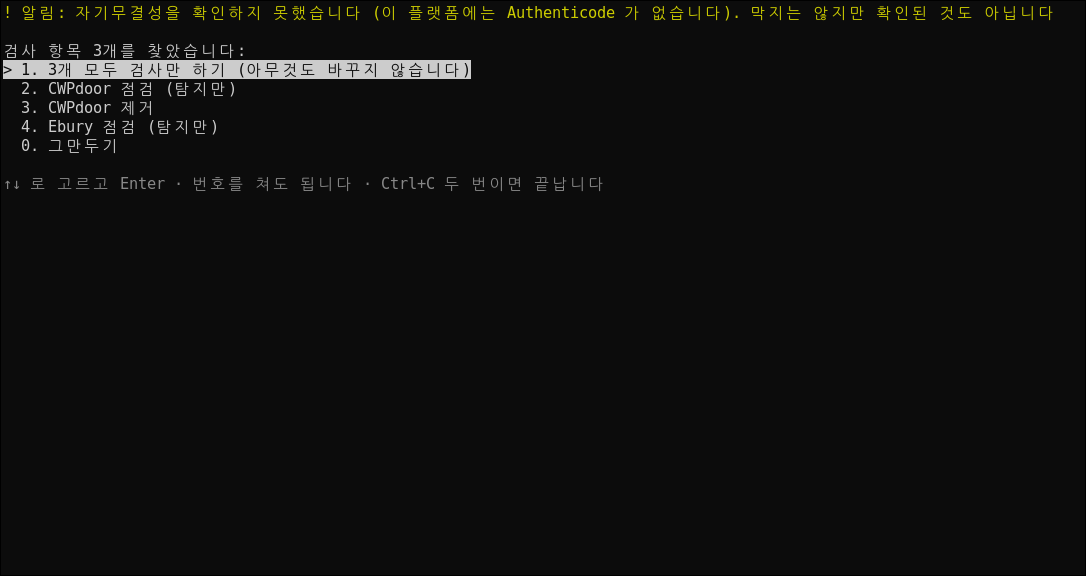
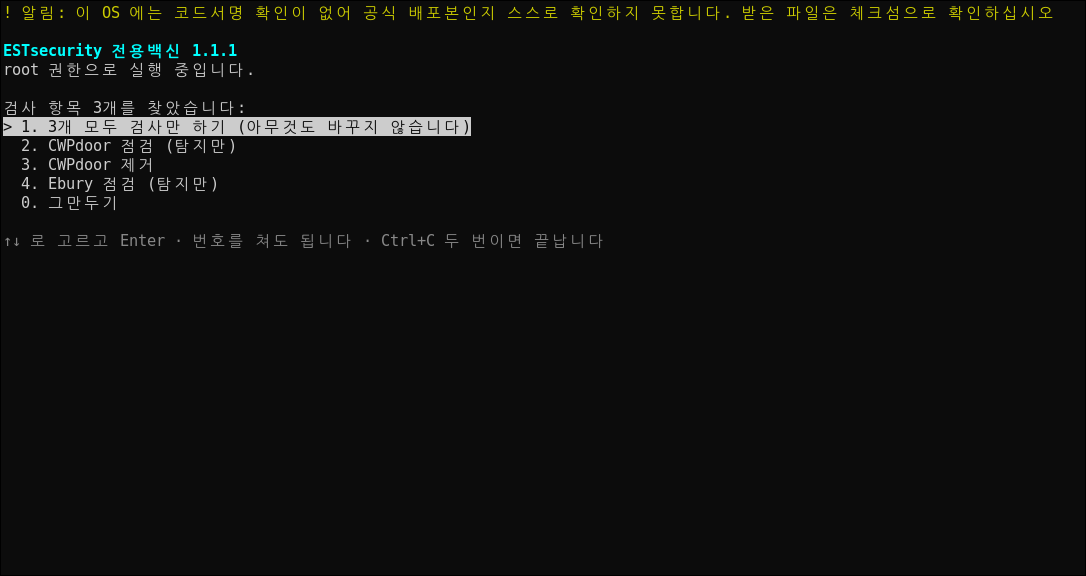
일부 실패 뒤 다음 할 일을 '까닭을 해결한 뒤 다시 검사하려면' 으로 — 남은 것을 치료한다고 약속하지 않는다
f3aa5e5 는 일부 실패 뒤 메뉴의 다음 할 일을 '남은 것을 치료하려면 — 1. 검사하고 치료하기' 로
적었다. 내려받은 v1.1.1-rc.2 로 리눅스 컨테이너에서 쟀다 — CWPdoor 자리 채우기를 치료하면서 유닛
폴더를 읽기 전용으로 붙이면 바이너리 격리는 되고 유닛 삭제만 실패한다(종료 3 · 일부 실패 3건 수행
완료). 그 뒤 같은 룰로 다시 검사하면 판정의 근거(바이너리)가 이미 격리돼 종료 0 '위협이 발견되지
않았습니다' 이고 유닛 파일은 그대로 남는다. 남은 것을 치료하지 않는다.

- 메뉴: '까닭을 해결한 뒤 다시 검사하려면 — 1. 검사하고 치료하기' (메뉴 세션 안의 줄 — 인자 실행의
  표준 출력 · 종료 코드는 그대로)
- README 결과 표의 '일부 실패': 다시 검사가 위협 없음으로 끝나도 실패 줄의 항목은 남는다 — 직접
  지우거나 담당자에게 알린다
- 화면 문서의 같은 문단

README 이미지 넷을 v1.1.1-rc.2 로 다시 찍었다 — 리눅스 둘은 xterm 검은 배경(고르는 화면 · 모두
검사 결과), Windows 둘은 Windows Terminal(첫 메뉴 · 검사 결과와 다음 할 일). 화면에 1.1.1 의 메뉴
이름과 알림이 나온다.

diff --git a/crates/remedy-cli/src/main.rs b/crates/remedy-cli/src/main.rs
@@ -1040,10 +1040,17 @@ fn next_steps(flow: Flow, code: Code, treats: bool) -> Vec<(&'static str, menu::
         }
         // **이어서 하기가 아니다.** 실패한 Action 이 있어도 실행기는 모든 결과와 끝을 적으므로
         // 그 회차는 끝난 회차다 — 이어서 하기는 '이미 적용됨'(5)으로 거절한다(2026-11-07 적대적
-        // 검토). 남은 것은 새로 검사해 치료한다(README 결과 표 · 재시작 조언과 같은 말).
+        // 검토). 까닭을 해결한 뒤 새로 검사해 치료한다(README 결과 표 · 재시작 조언과 같은 말).
+        //
+        // **'남은 것을 치료' 라고 약속하지 않는다.** 판정의 근거가 이미 치워졌으면 다시 검사는
+        // 위협 없음(0)으로 끝나고 실패한 항목은 그대로 남는다(rc.2 실측 — CWPdoor 바이너리는
+        // 격리, 유닛 삭제만 읽기 전용으로 실패: 다시 검사 0 · 유닛 그대로).
         (Flow::Treat, Code::PartialFailure) => vec![
             (
-                lang.t("남은 것을 치료하려면", "To treat what is left"),
+                lang.t(
+                    "까닭을 해결한 뒤 다시 검사하려면",
+                    "To scan again once the cause is fixed",
+                ),
                 menu::Line::Treat,
             ),
             (lang.t("신고하려면", "To report it"), menu::Line::Report),

diff --git a/docs/design/콘솔은-이렇게-보인다.md b/docs/design/콘솔은-이렇게-보인다.md
@@ -493,9 +493,12 @@ EOF 를 받아도(입력이 끊겨도) 그대로 끝난다.
 2026-11-07 적대적 검토). 검사가 찾았으면 *찾은 것을 치료하려면 — 1. …* 하나이고, 복원
 뒤에는 *치료하려면 — 1. …*. 번호는 기계 상태와 상관없이 그 줄이다(접은 줄을 가리킬 때는
 *14. 작성자·운영자 명령 보기 → 2. …* 처럼 두 걸음으로 적는다). 치료가 일부 실패하면
-*남은 것을 치료하려면 — 1. …* · *신고하려면 — 7. …* 이다 — 실패한 Action 도 결과와 끝을
-적으므로 이어서 하기는 '이미 적용됨'(5)으로 거절한다(1.1.0 까지는 *8. 중단된 작업 이어서
-하기* 를 가리켰다 — 2026-11-07 적대적 검토). 복원이 일부 실패하면 신고만 권한다. 찾기만 하는 룰이 찾았으면
+*까닭을 해결한 뒤 다시 검사하려면 — 1. …* · *신고하려면 — 7. …* 이다 — 실패한 Action 도 결과와
+끝을 적으므로 이어서 하기는 '이미 적용됨'(5)으로 거절한다(1.1.0 까지는 *8. 중단된 작업 이어서
+하기* 를 가리켰다 — 2026-11-07 적대적 검토). '남은 것을 치료' 라고 약속하지 않는다 — 판정의
+근거가 이미 치워졌으면 다시 검사는 위협 없음(0)으로 끝나고 실패한 항목은 남는다(rc.2 실측:
+CWPdoor 바이너리는 격리 · 유닛 삭제만 읽기 전용으로 실패 → 다시 검사 0 · 유닛 그대로). 복원이
+일부 실패하면 신고만 권한다. 찾기만 하는 룰이 찾았으면
 치료를 권하지 않고, 조치 차례가 있는 README 절(*위협별 안내*)과 받은 폴더 안 그 룰의
 `RELEASE.md` 경로(인터넷이 막힌 서버의 몫)를 가리킨다. 메뉴에서 고른 *검사만 하기* 는 시작에 *"검사만 합니다 — 아무것도 바꾸지 않습니다.
 찾으면 치료할 계획을 세워 둡니다."* 를 남긴다(찾기만 하는 룰은 앞 문장만). 끝내는 것은

diff --git a/README.md b/README.md
@@ -108,7 +108,7 @@ sudo ./remedy
 |---|---|
 | 위협이 발견되지 않았습니다. | 그 항목의 위협이 없습니다. |
 | 위협 발견, 치료 완료 (N건 수행 완료) | 치료했습니다. 오탐이라고 판단되면 메뉴의 **치료 전으로 복원하기** 로 되돌립니다. |
-| 일부 실패 (N건 수행 완료) | 몇 가지를 바꾸지 못했습니다 — 바로 위 *실패* 줄에 까닭이 있습니다. 이미 바꾼 것은 그대로 두었으니, 까닭을 해결한 뒤 다시 검사하고 치료합니다. |
+| 일부 실패 (N건 수행 완료) | 몇 가지를 바꾸지 못했습니다 — 바로 위 *실패* 줄에 무엇을 왜 못 했는지 있습니다. 이미 바꾼 것은 그대로 두었으니, 까닭을 해결한 뒤 다시 검사하고 치료합니다. 다시 검사가 *위협이 발견되지 않았습니다* 로 끝나도 실패 줄의 항목은 남아 있습니다 — 직접 지우거나 담당자에게 알리십시오. |
 | 위협 발견, 치료하지 않았습니다. | 검사만 했거나 치료를 승인하지 않았습니다. 치료하려면 그 항목의 **1. 검사하고 치료하기** 를 고릅니다. *(탐지만)* 항목은 아래 [위협별 안내](#위협별-안내)를 따르십시오. |
 | 관측이 불완전해 '위협 없음' 을 말할 수 없습니다. | 다 보지 못했습니다 — 바로 위 *주의* 줄에 까닭이 있습니다. |
 | 해당 없음 (검사할 경로가 이 기계에 없습니다) | *모두 검사만* 의 요약 줄입니다. 그 항목이 검사하는 제품이 이 서버에 없습니다 — Control Web Panel(CWP)을 쓰지 않는 서버의 CWPdoor 두 항목이 이렇게 나옵니다. |
